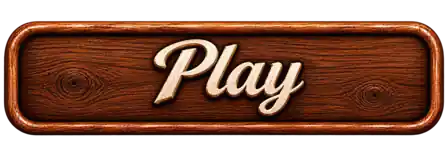
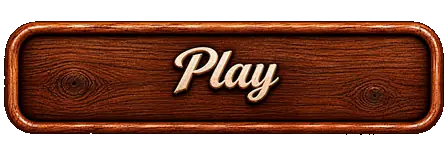
Refresh play button and match snakes menu sizing

diff --git a/app/src/main/kotlin/com/mkdev/mkboardgames/ui/ChessMenuView.kt b/app/src/main/kotlin/com/mkdev/mkboardgames/ui/ChessMenuView.kt
@@ -360,9 +360,14 @@ class ChessMenuView(
         }
         var nextRowTop = actionTop + firstRowHeight + gap
         actions.drop(2).forEach { action ->
-            val rowWidth = width - sidePadding * 2f
+            val rowWidth = if (isSnakesLadders && action.label == "4 Players") {
+                actionWidth
+            } else {
+                width - sidePadding * 2f
+            }
             val actionHeight = actionHeightFor(action.label, rowWidth)
-            action.rect = RectF(sidePadding, nextRowTop, width - sidePadding, nextRowTop + actionHeight)
+            val rowLeft = (width - rowWidth) / 2f
+            action.rect = RectF(rowLeft, nextRowTop, rowLeft + rowWidth, nextRowTop + actionHeight)
             nextRowTop = action.rect.bottom + gap
         }
         actions.forEach {
